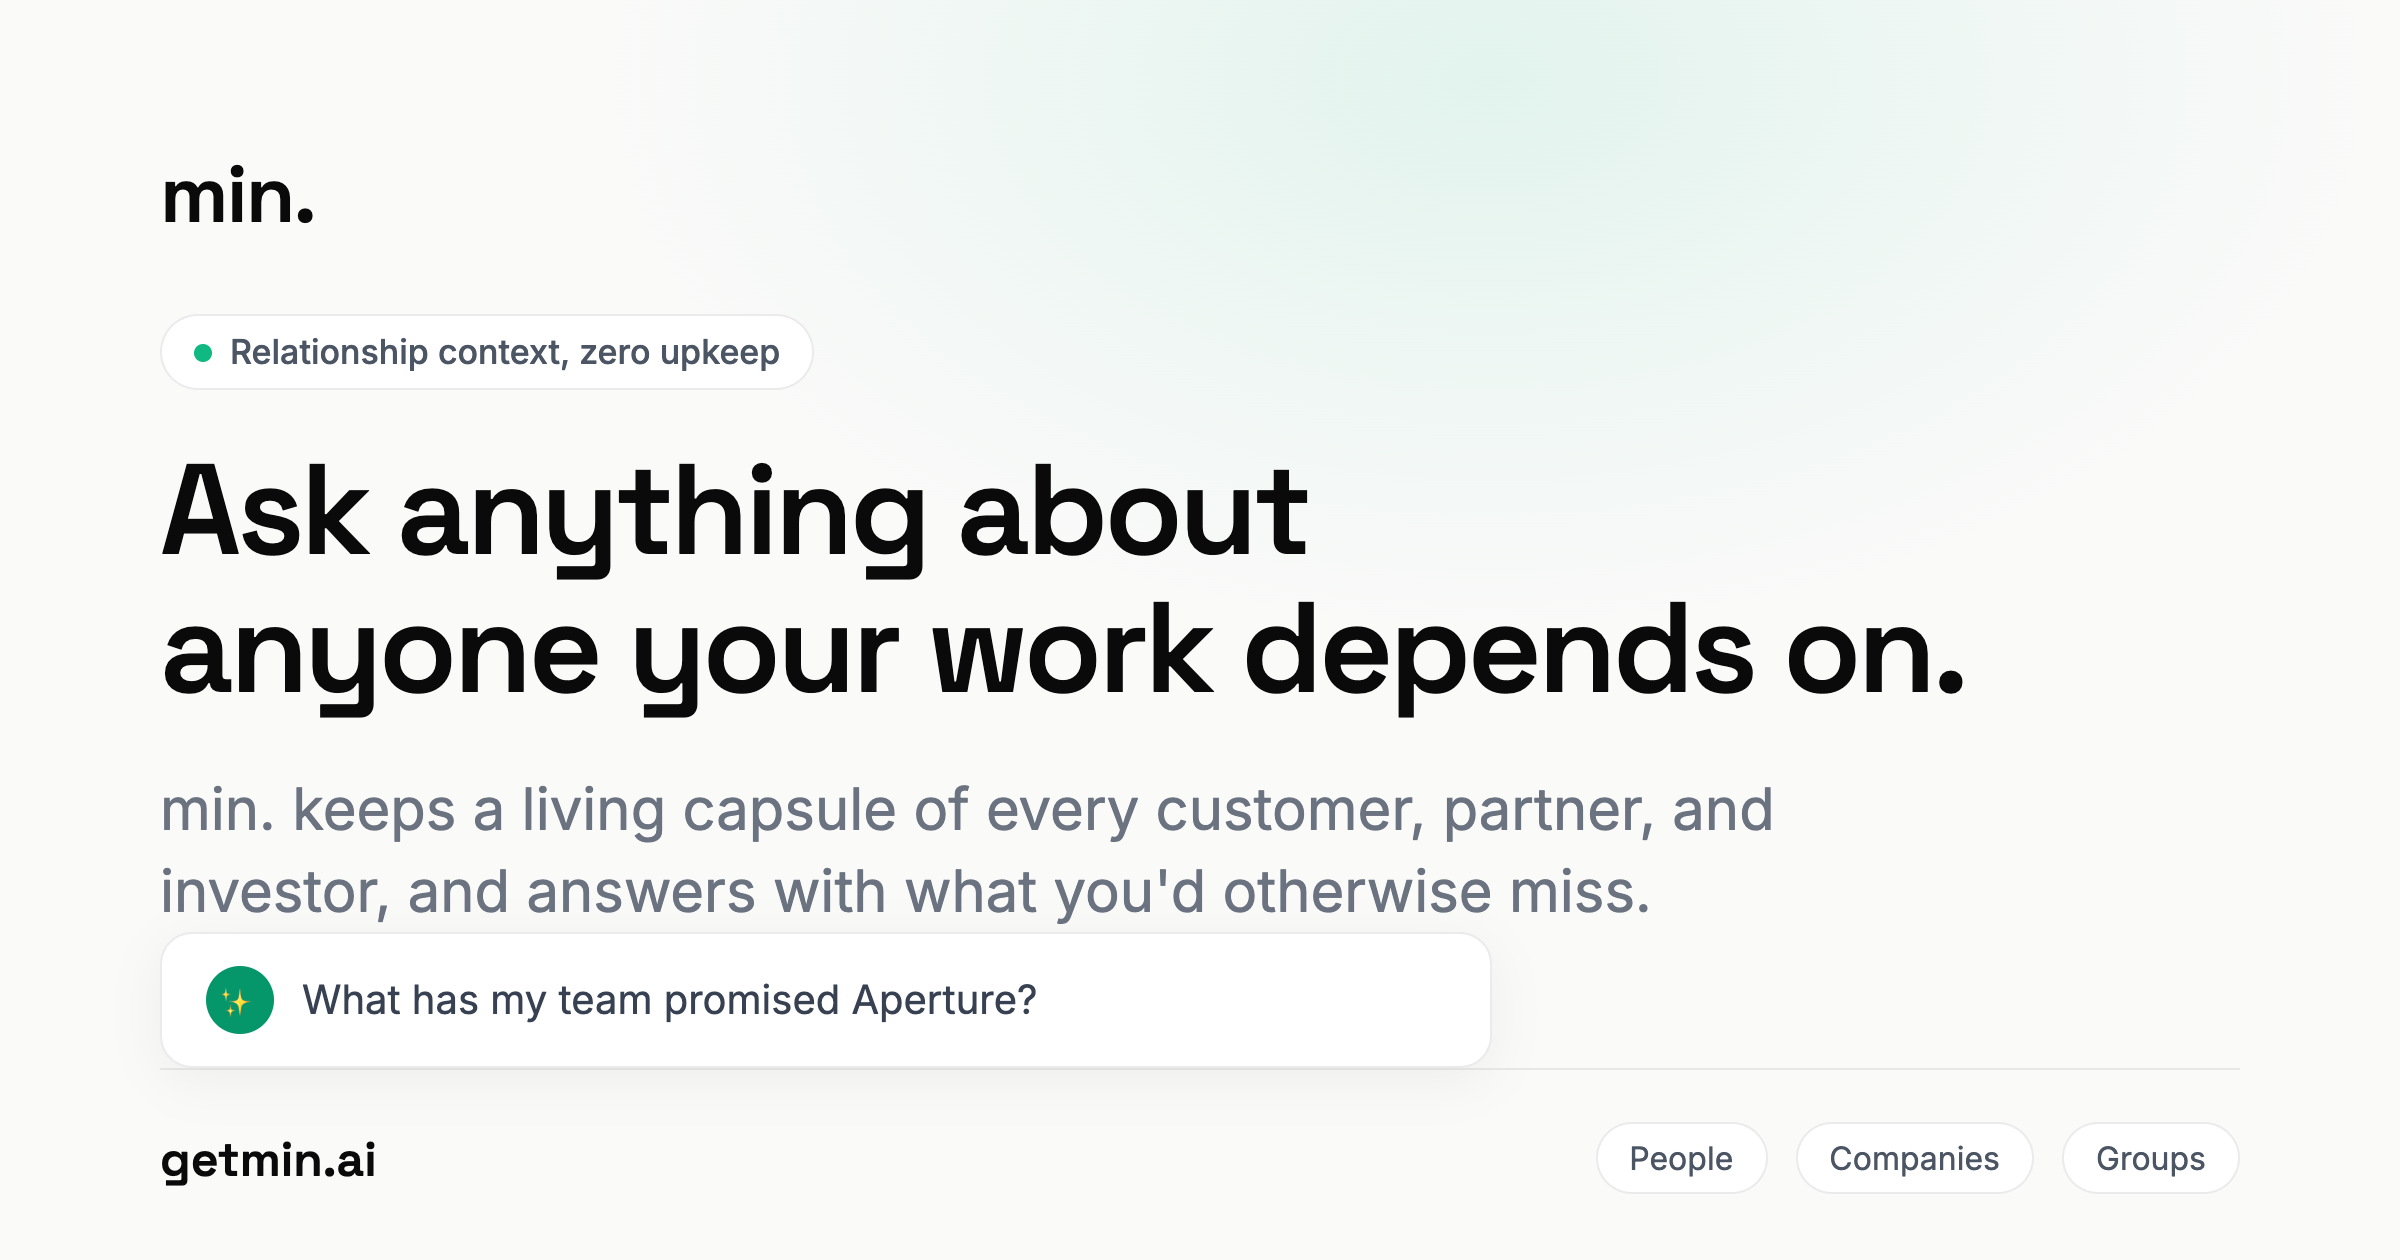
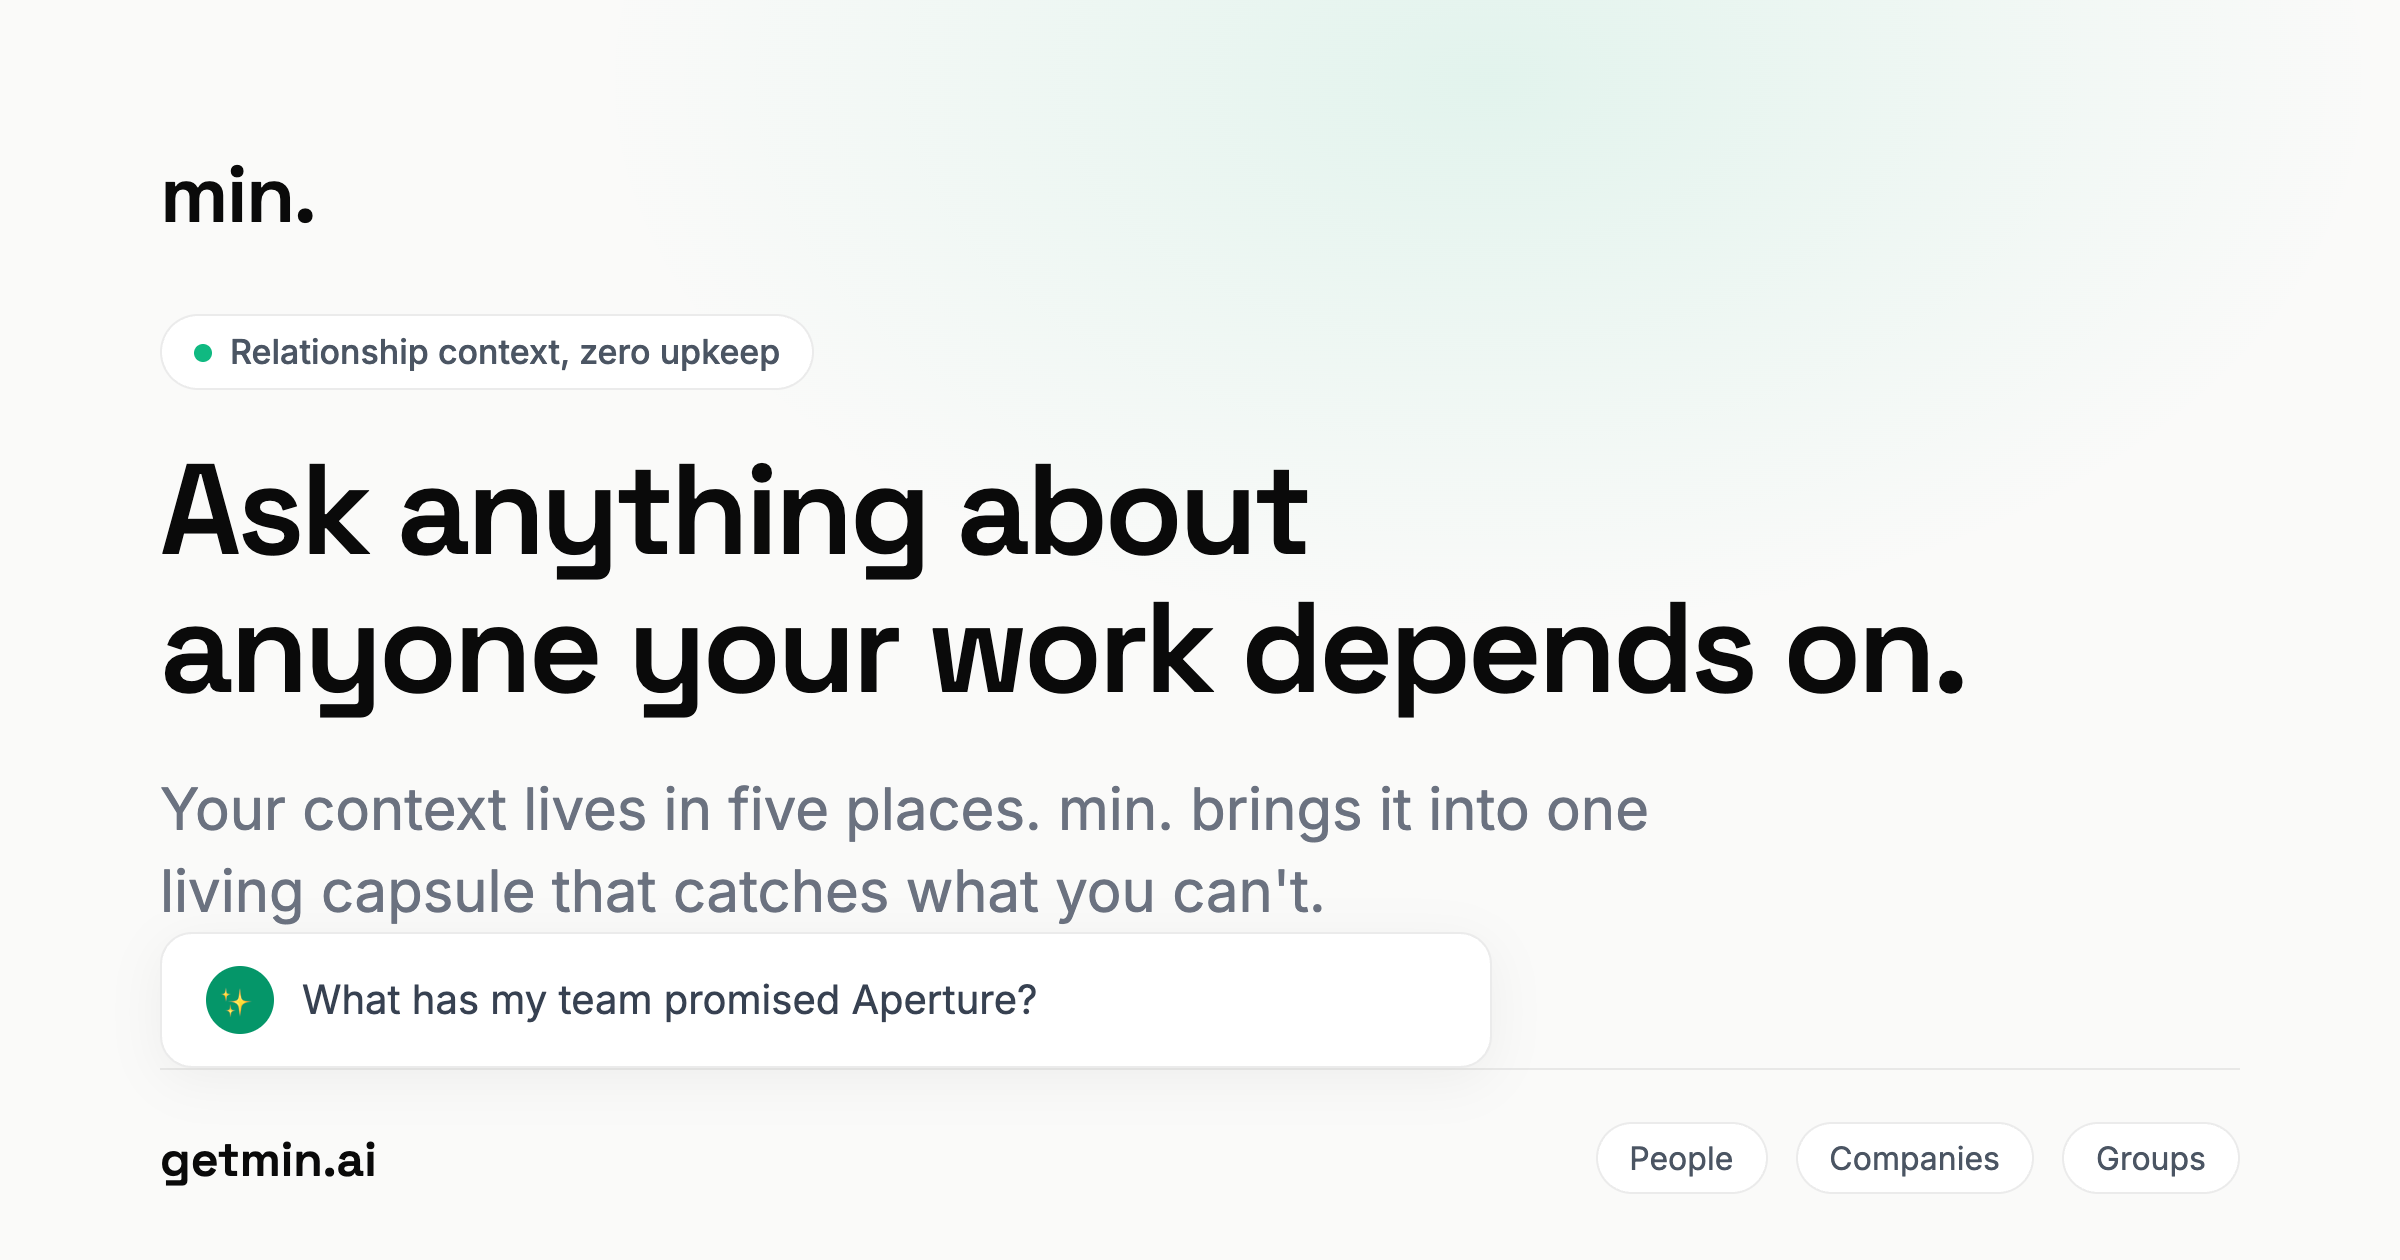
Hero sub: catches what you can't
"answers with what you'd otherwise miss" described the output; the punchier
claim is about you: "one living capsule that catches what you can't."
Protective verb, human-limit framing. OG card re-rendered to match.

Changed region(s): [[0.0625, 0.619, 0.75, 0.7429]]

diff --git a/src/components/landing/LandingHero.tsx b/src/components/landing/LandingHero.tsx
@@ -31,8 +31,7 @@ export default function LandingHero() {
             <p className="mx-auto mt-6 max-w-xl text-[17px] leading-relaxed text-gray-500 lg:mx-0">
               Your context on anyone lives in five places: calls, email,
               calendar, notetakers, and your teammates' heads. min. brings it
-              into one living capsule, and answers with what you'd otherwise
-              miss.
+              into one living capsule that catches what you can't.
             </p>
           </FadeIn>
 

diff --git a/public/og-image.html b/public/og-image.html
@@ -153,7 +153,7 @@
                     anyone your work depends on.
                 </div>
                 <div class="subheadline">
-                    min. keeps a living capsule of every customer, partner, and investor, and answers with what you'd otherwise miss.
+                    Your context lives in five places. min. brings it into one living capsule that catches what you can't.
                 </div>
             </div>
 
